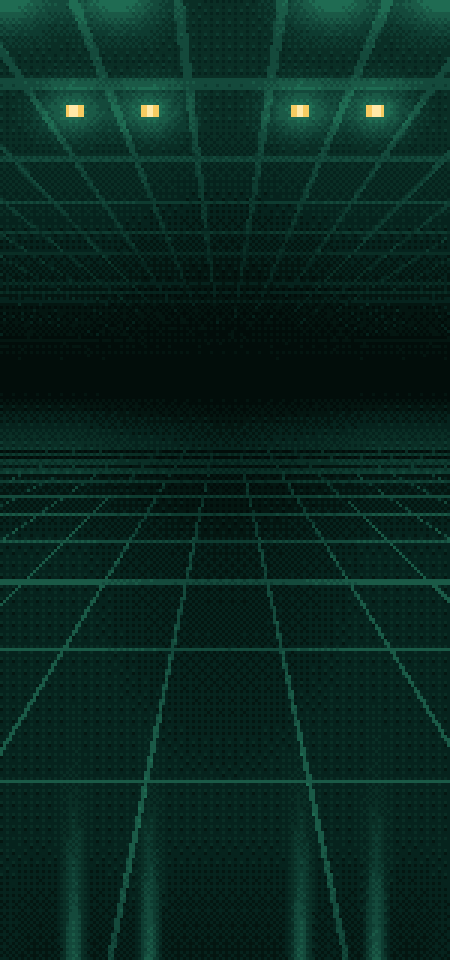
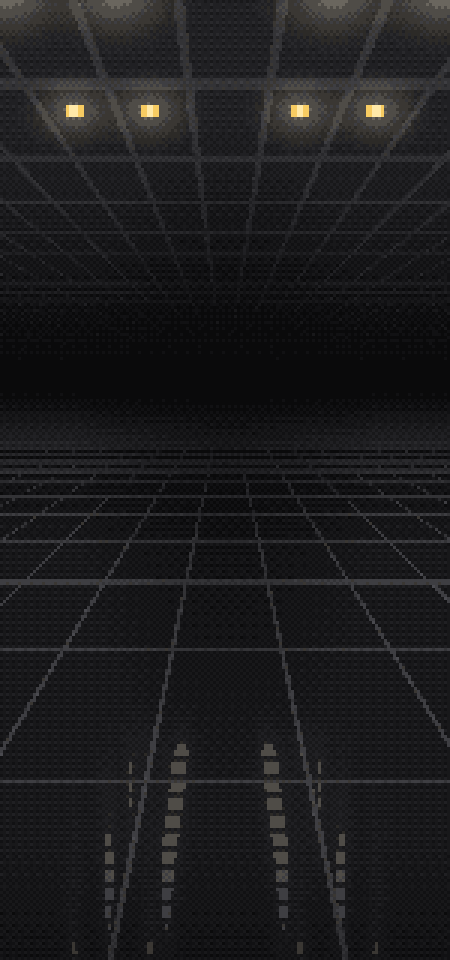
Daily roll: neutral charcoal casino instead of emerald

diff --git a/ReactNativeApp/src/app/roll.tsx b/ReactNativeApp/src/app/roll.tsx
@@ -65,7 +65,7 @@ import { useRollSounds } from '@/roll/sounds';
 // picked, and the prize card pops out of the tray. Opened from the small
 // machine on Today.
 
-const BG = '#06231d'; // under the casino picture, the same emerald
+const BG = '#18181a'; // under the casino picture, the same charcoal
 const INK = '#f4f1ff';
 const MUTED = '#b9b6d6';
 const CARD = '#25263d';

diff --git a/ReactNativeApp/scripts/generate-roll-background.py b/ReactNativeApp/scripts/generate-roll-background.py
@@ -5,8 +5,8 @@ The casino behind the Daily Roll ("Pixel Art 2.5D").
 Writes assets/roll/casino.png (and @2x, @3x): a 150 x 320 pixel-art hall
 at night, drawn at 3 points per art pixel so it covers any phone at
 450 x 960 points. The app centers it behind the screen and lets the edges
-crop. Only a ceiling and a floor, casino emerald with gold lights (the
-red machine stands out most against green): a beamed ceiling with
+crop. Only a ceiling and a floor, neutral charcoal with gold lights (it
+was casino emerald, which read too green): a beamed ceiling with
 spotlights in its coffers, a polished tiled floor that mirrors them,
 and the hall fading to dark where the two meet. No props; the machine
 (and its shadow, drawn by the app) is the only thing in the room.
@@ -19,7 +19,7 @@ dither, so light falls off in hard pixel bands rather than smooth
 gradients.
 
 Usage: python3 scripts/generate-roll-background.py [scheme] [out folder]
-(scheme is one of THEMES; emerald, into assets/roll/, by default)
+(scheme is one of THEMES; charcoal, into assets/roll/, by default)
 """
 import math
 import os
@@ -58,6 +58,13 @@ THEMES = {
         'ceil': '#0a2e25', 'beam': '#14493b', 'floor': '#06231d', 'seam': '#1a5946',
         'reflect': '#ffc860', 'accents': ['#1f2a12', '#3a3a16', '#5e5220', '#8a7228', '#b8963a'],
     },
+    'charcoal': {
+        'darks': ['#0a0a0b', '#111113', '#18181a', '#202023', '#29292c', '#333336', '#3e3e42',
+                  '#4a4a4f'],
+        'ceil': '#202023', 'beam': '#333336', 'floor': '#18181a', 'seam': '#3e3e42',
+        'reflect': '#ffc860', 'accents': ['#2c2a27', '#3a3733', '#4f4c47', '#6a665e', '#8a8478'],
+        'shine': ['#8a8478', '#6a665e', '#4f4c47'],
+    },
     'arcade': {
         'darks': ['#04061a', '#070b24', '#0a1030', '#0f173f', '#131d4d', '#16245c', '#1d3070',
                   '#263d88'],
@@ -65,7 +72,7 @@ THEMES = {
         'reflect': '#3de0ff', 'accents': ['#0c3a5a', '#11607e', '#1f8fae', '#34c2dc', '#8aefff'],
     },
 }
-THEME = THEMES[sys.argv[1] if len(sys.argv) > 1 else 'emerald']
+THEME = THEMES[sys.argv[1] if len(sys.argv) > 1 else 'charcoal']
 if len(sys.argv) > 2:
     OUT = sys.argv[2]
 PALETTE = [hexc(c) for c in THEME['darks'] + THEME['accents'] + GOLD]
